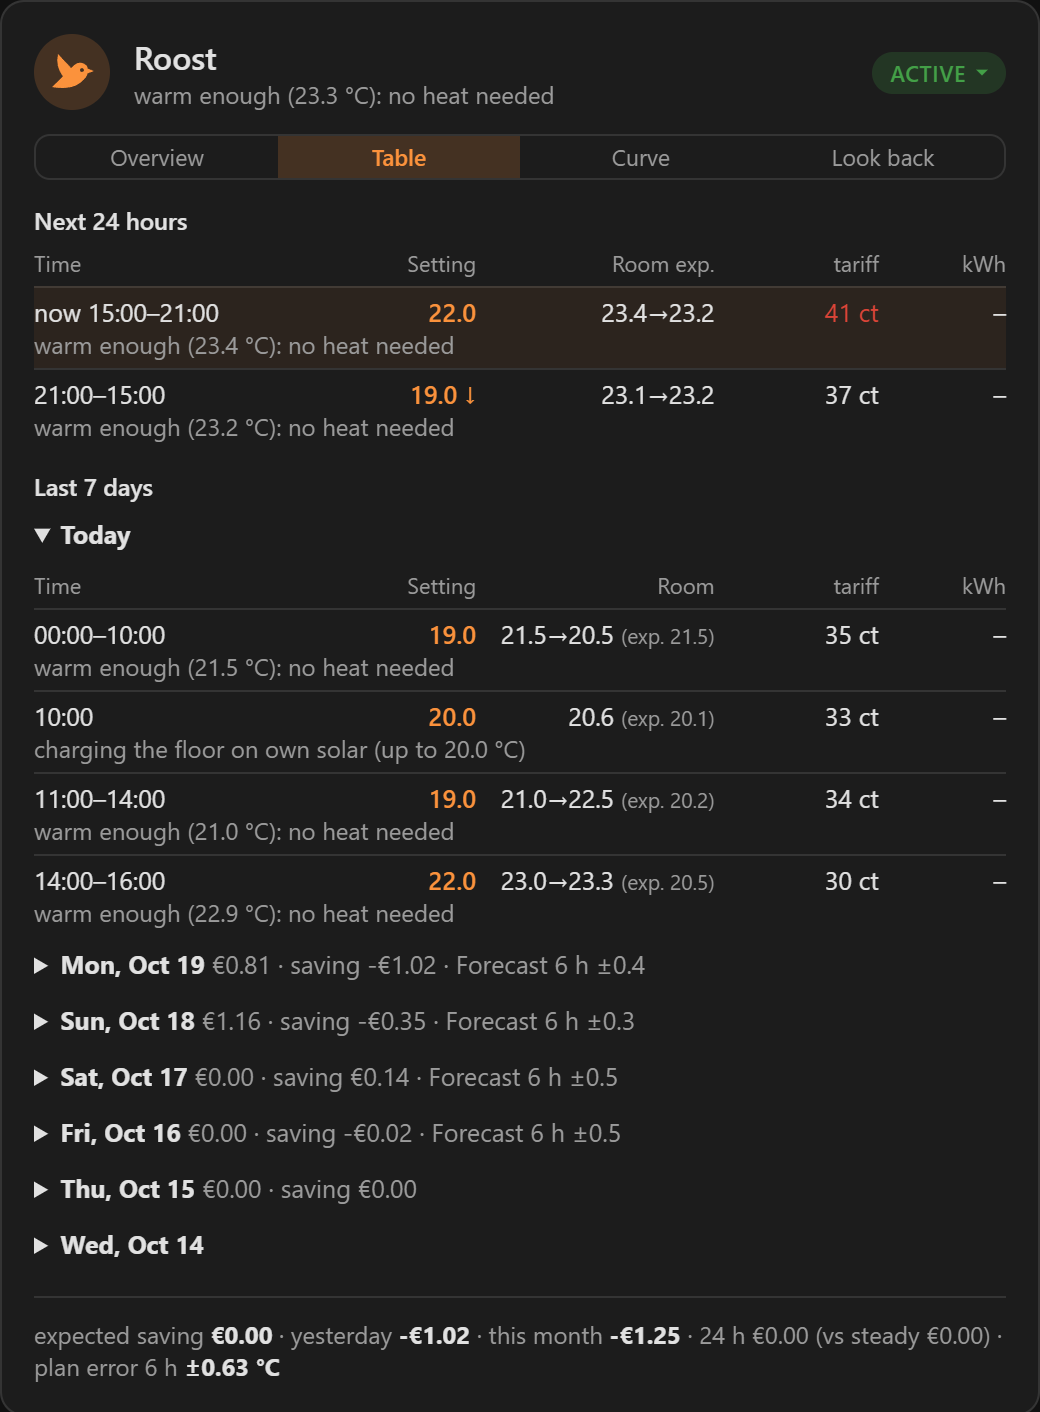
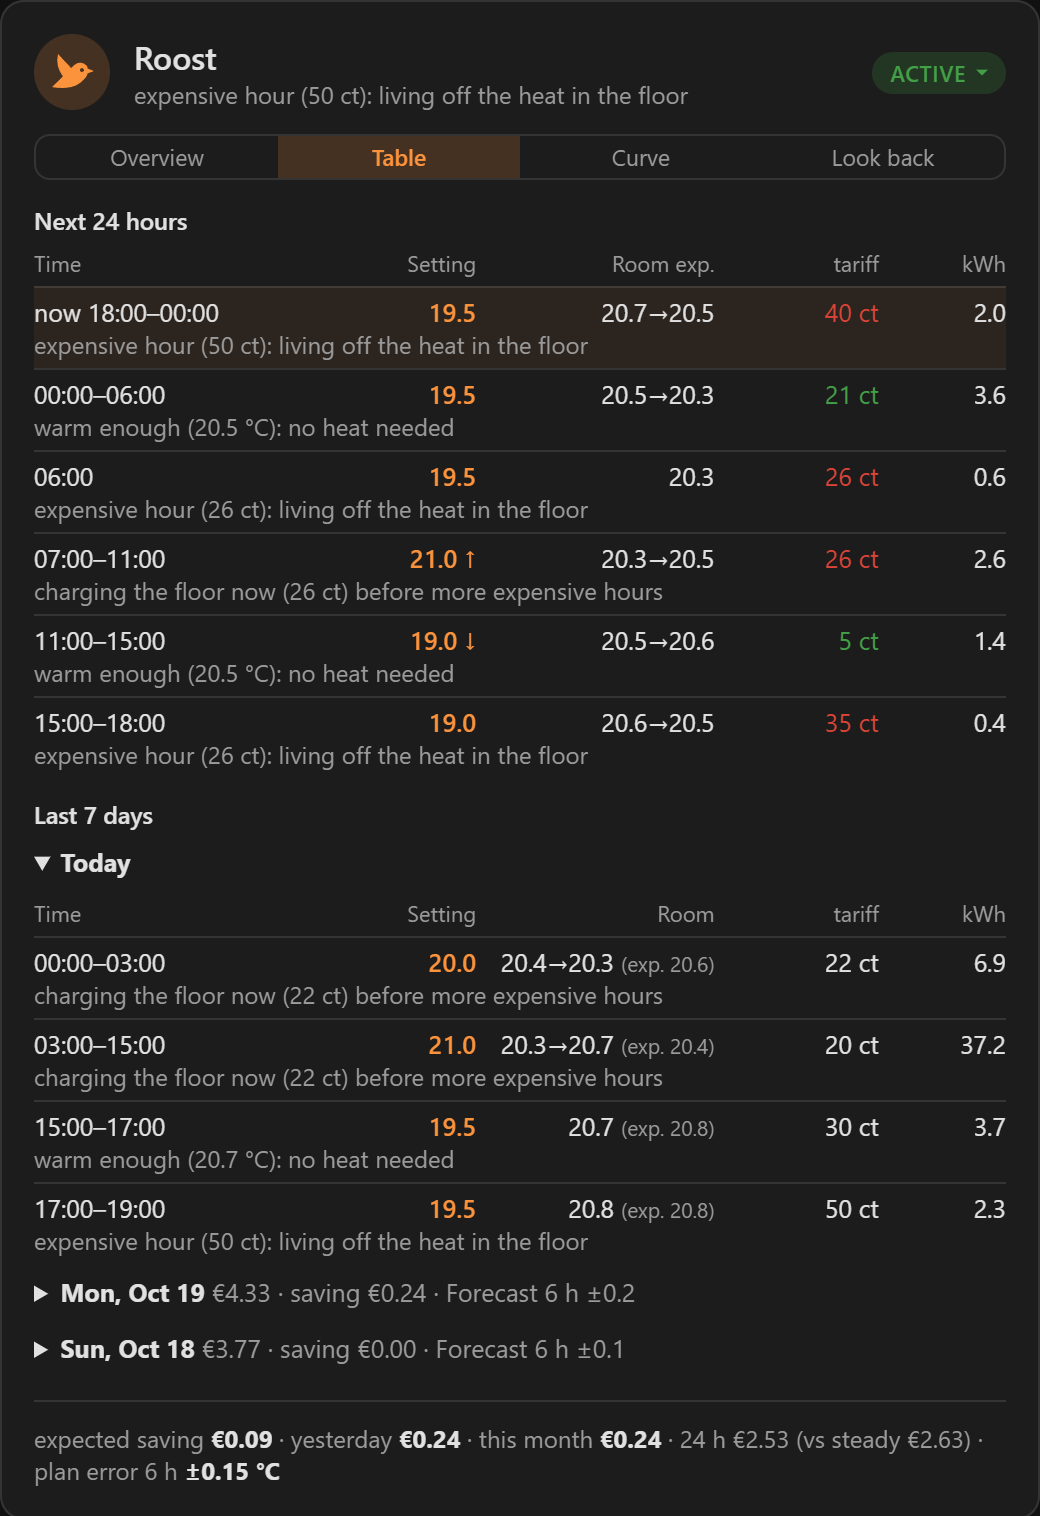
README: card screenshots from a simulated winter day with dynamic prices (Roost's own planner), marked as an example

diff --git a/README.md b/README.md
@@ -66,6 +66,9 @@ Plans your thermostat 24 hours ahead on price, weather and the heat your house s
 | <img src="assets/card-overview.png" width="400" alt="Overview"><br>**Overview** — what Roost does now and why, the plan for the next 24 hours with the tariff, and the next change | <img src="assets/card-table.png" width="400" alt="Table"><br>**Table** — the plan per hour with the reason, and the last 7 days: planned and set, room measured and expected, price, heat |
 | <img src="assets/card-curve.png" width="400" alt="Curve"><br>**Curve** — the heating curve your house needs as the five points of the Weheat app, beside every hour the heat pump ran | <img src="assets/card-lookback.png" width="400" alt="Look back"><br>**Look back** — what was planned beside what happened, how well the room was predicted 6 hours ahead, and a log of every change |
 
+<sub>Overview, table and look back: Roost's own planner and control on two simulated winter days with dynamic prices
+(an example, not a promise); the curve: a real house.</sub>
+
 ## Quick start
 
 1. **HACS**: click the button below (or HACS → ⋮ → *Custom repositories* → add this repository as an
